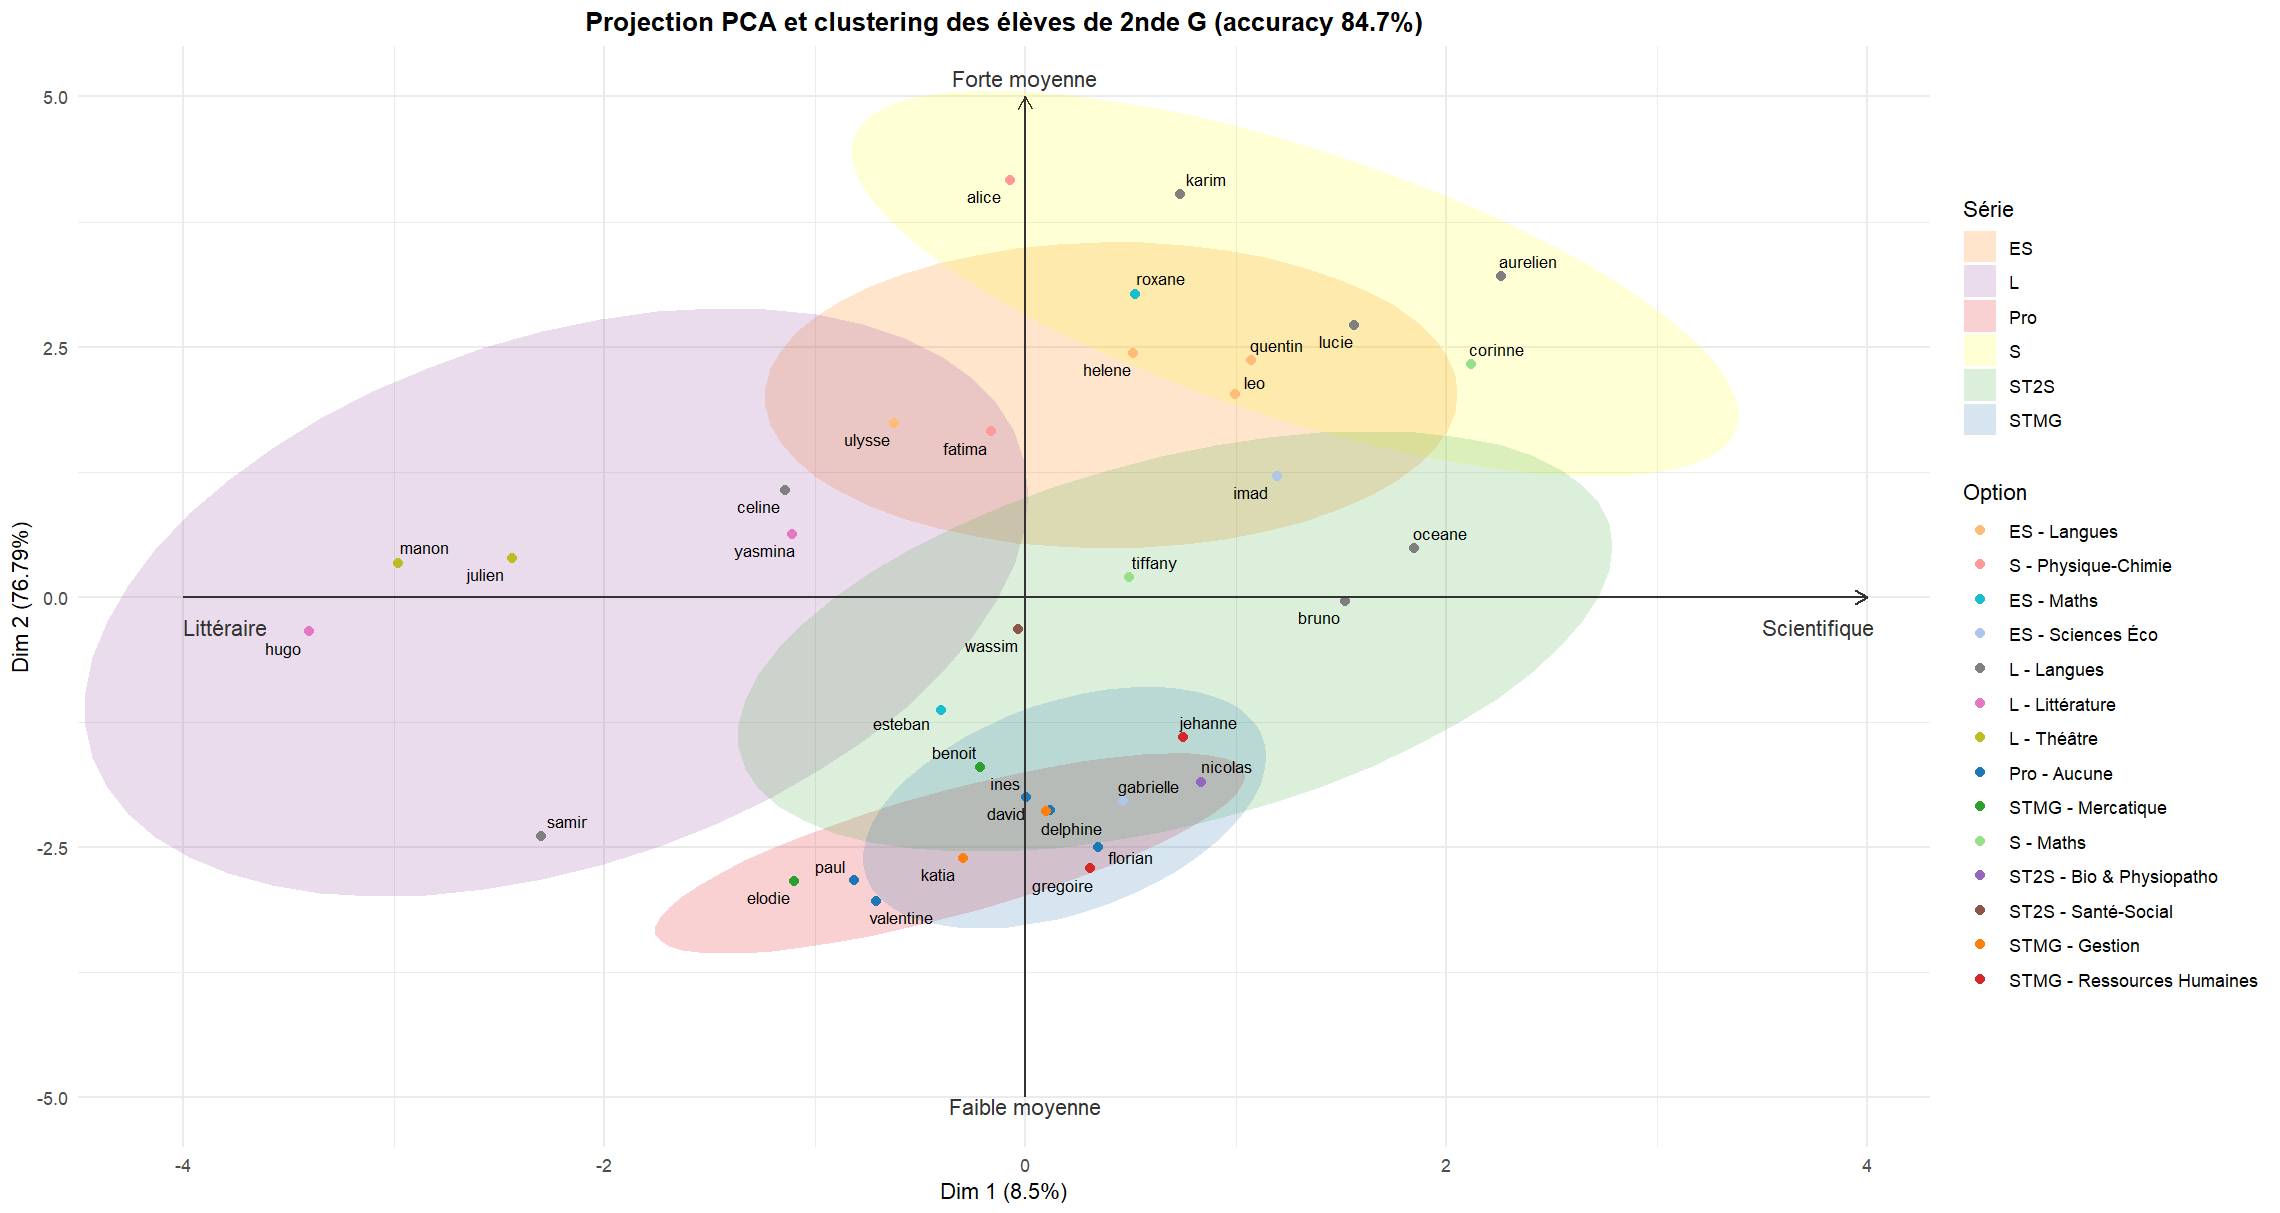
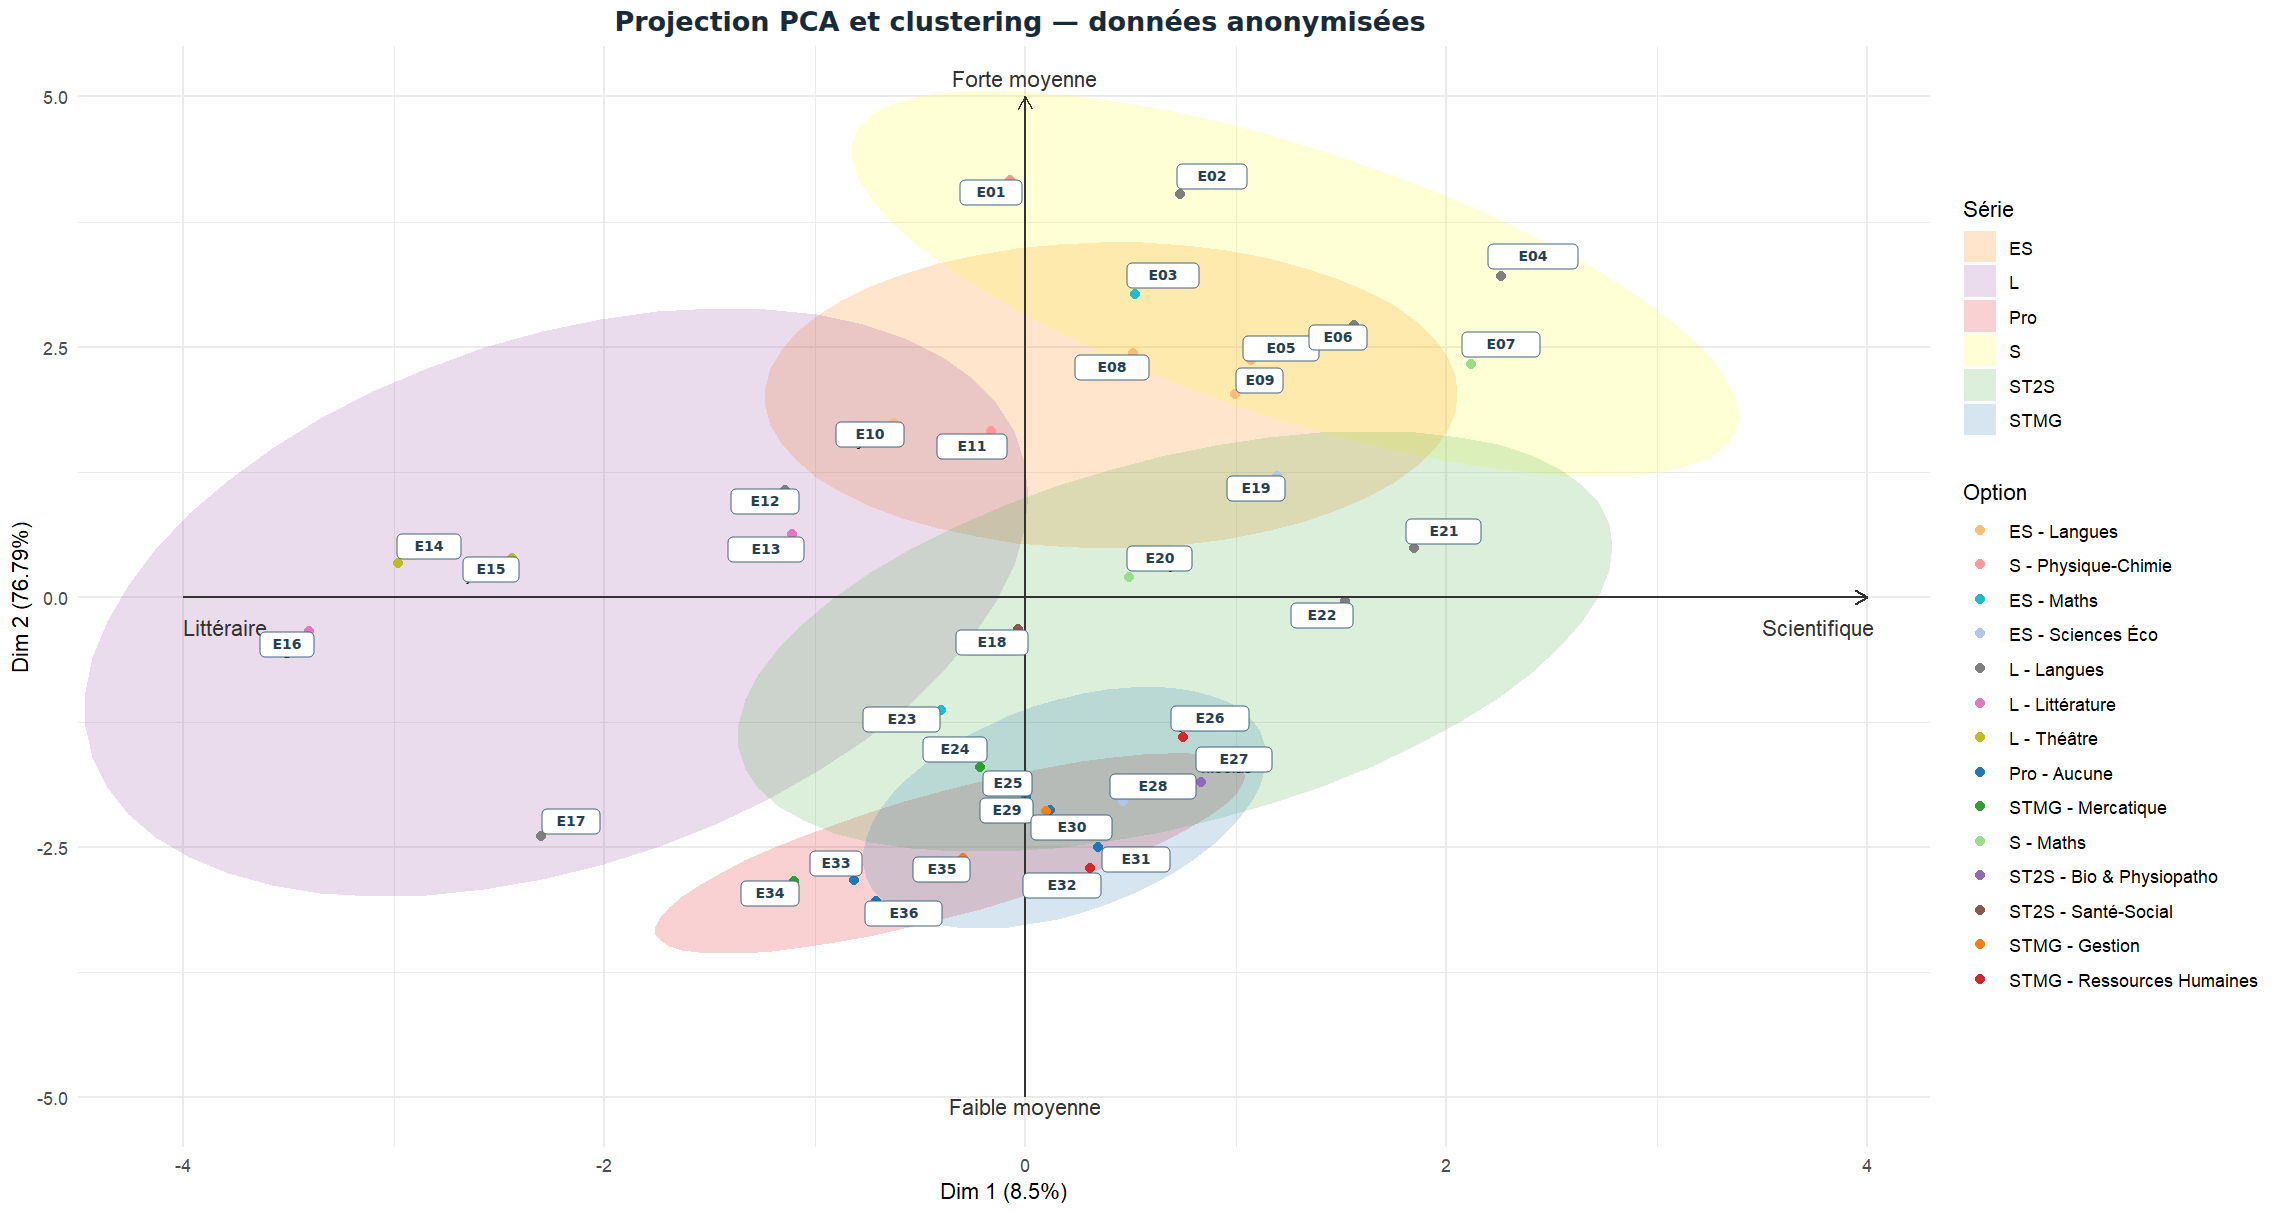
Anonymiser l’illustration Éducation nationale

diff --git a/cas-clients.html b/cas-clients.html
@@ -602,10 +602,10 @@
                 </ul>
               </div>
               <figure class="cases-page__case-media cases-page__case-media--single cases-page__case-media--chart">
-                <a href="assets/img/case-education-flux-allocation.png" aria-label="Afficher l’illustration complète de la projection PCA et du clustering">
-                  <img src="assets/img/case-education-flux-allocation.png" width="2280" height="1213" alt="Projection PCA et clustering de profils d’élèves selon les séries et options, utilisée pour analyser les flux d’orientation." loading="lazy" decoding="async">
+                <a href="assets/img/case-education-flux-allocation.png" aria-label="Afficher l’illustration anonymisée de la projection PCA et du clustering">
+                  <img src="assets/img/case-education-flux-allocation.png" width="2280" height="1213" alt="Projection PCA et clustering anonymisés de profils d’élèves selon les séries et options, utilisée pour analyser les flux d’orientation." loading="lazy" decoding="async">
                 </a>
-                <figcaption>Projection PCA et clustering pour éclairer les flux d’orientation</figcaption>
+                <figcaption>Projection PCA et clustering anonymisés pour éclairer les flux d’orientation</figcaption>
               </figure>
             </article>
           </li>
